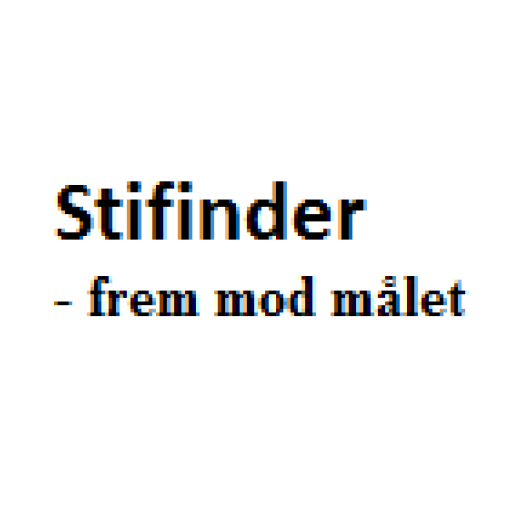
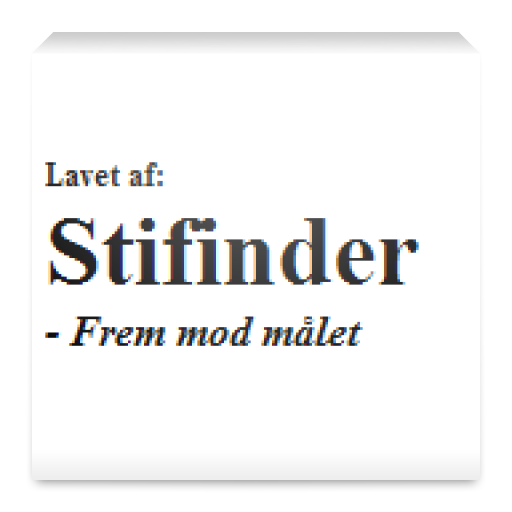
Nyt layout splashscreen update2

Changed region(s): [[0.0625, 0.3125, 0.9062, 0.6875], [0.0625, 0.9375, 0.9375, 0.9688], [0.0625, 0.0625, 0.9375, 0.0938]]

diff --git a/app/src/main/java/tranumnet/dk/tranumapp/SplashScreen.java b/app/src/main/java/tranumnet/dk/tranumapp/SplashScreen.java
@@ -13,7 +13,7 @@ import android.os.Handler;
 public class SplashScreen extends Activity
 {
     //timer for Splash Screen
-    private static int SPLASH_TIME_OUT = 3000;
+    private static int SPLASH_TIME_OUT = 4500;
 
     @Override
     protected void onCreate(Bundle savedInstanceState)
